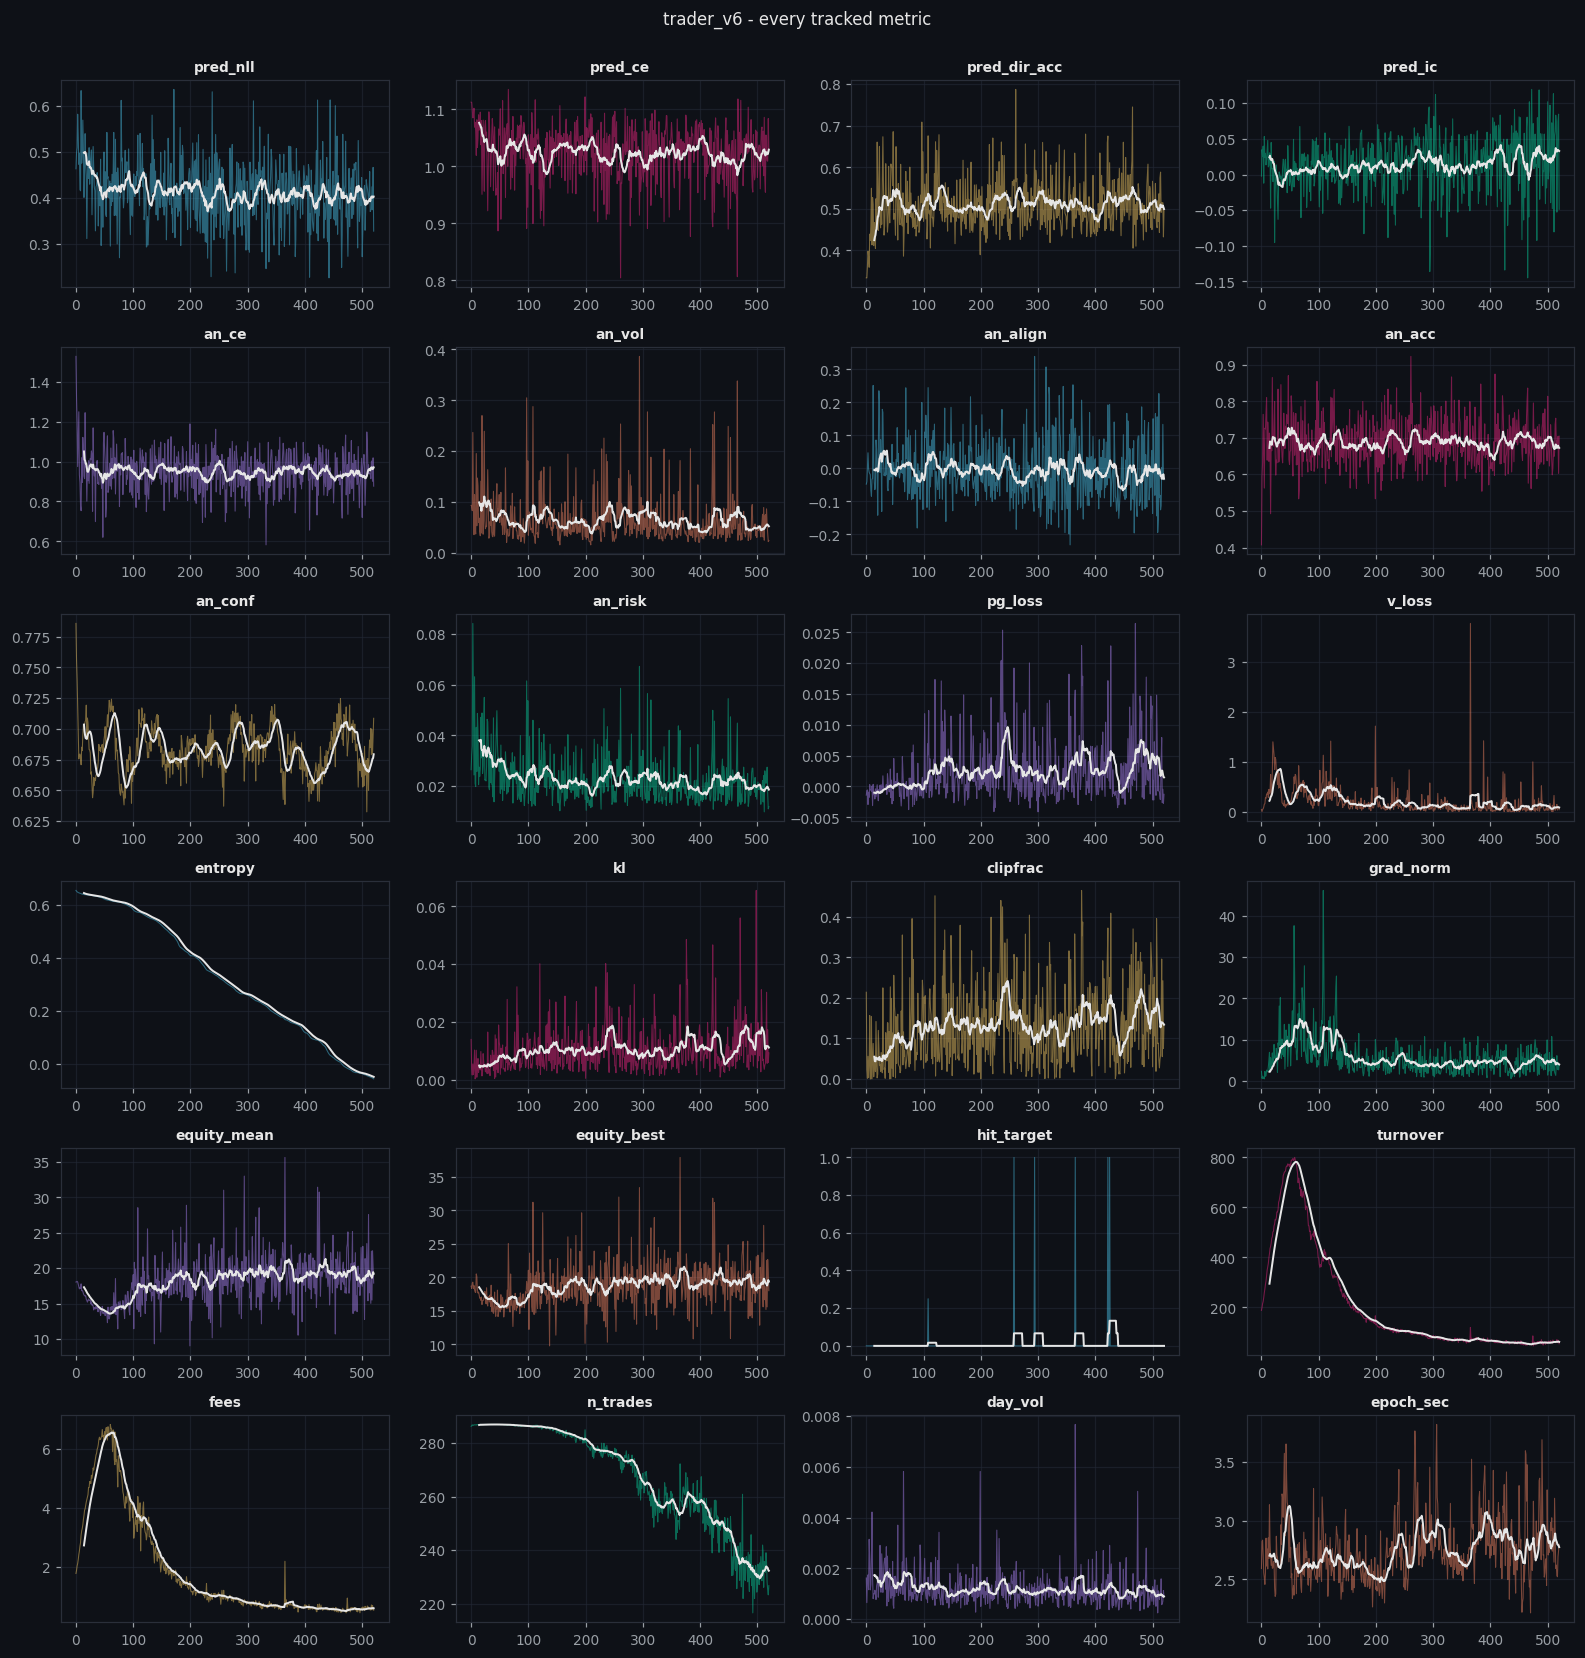
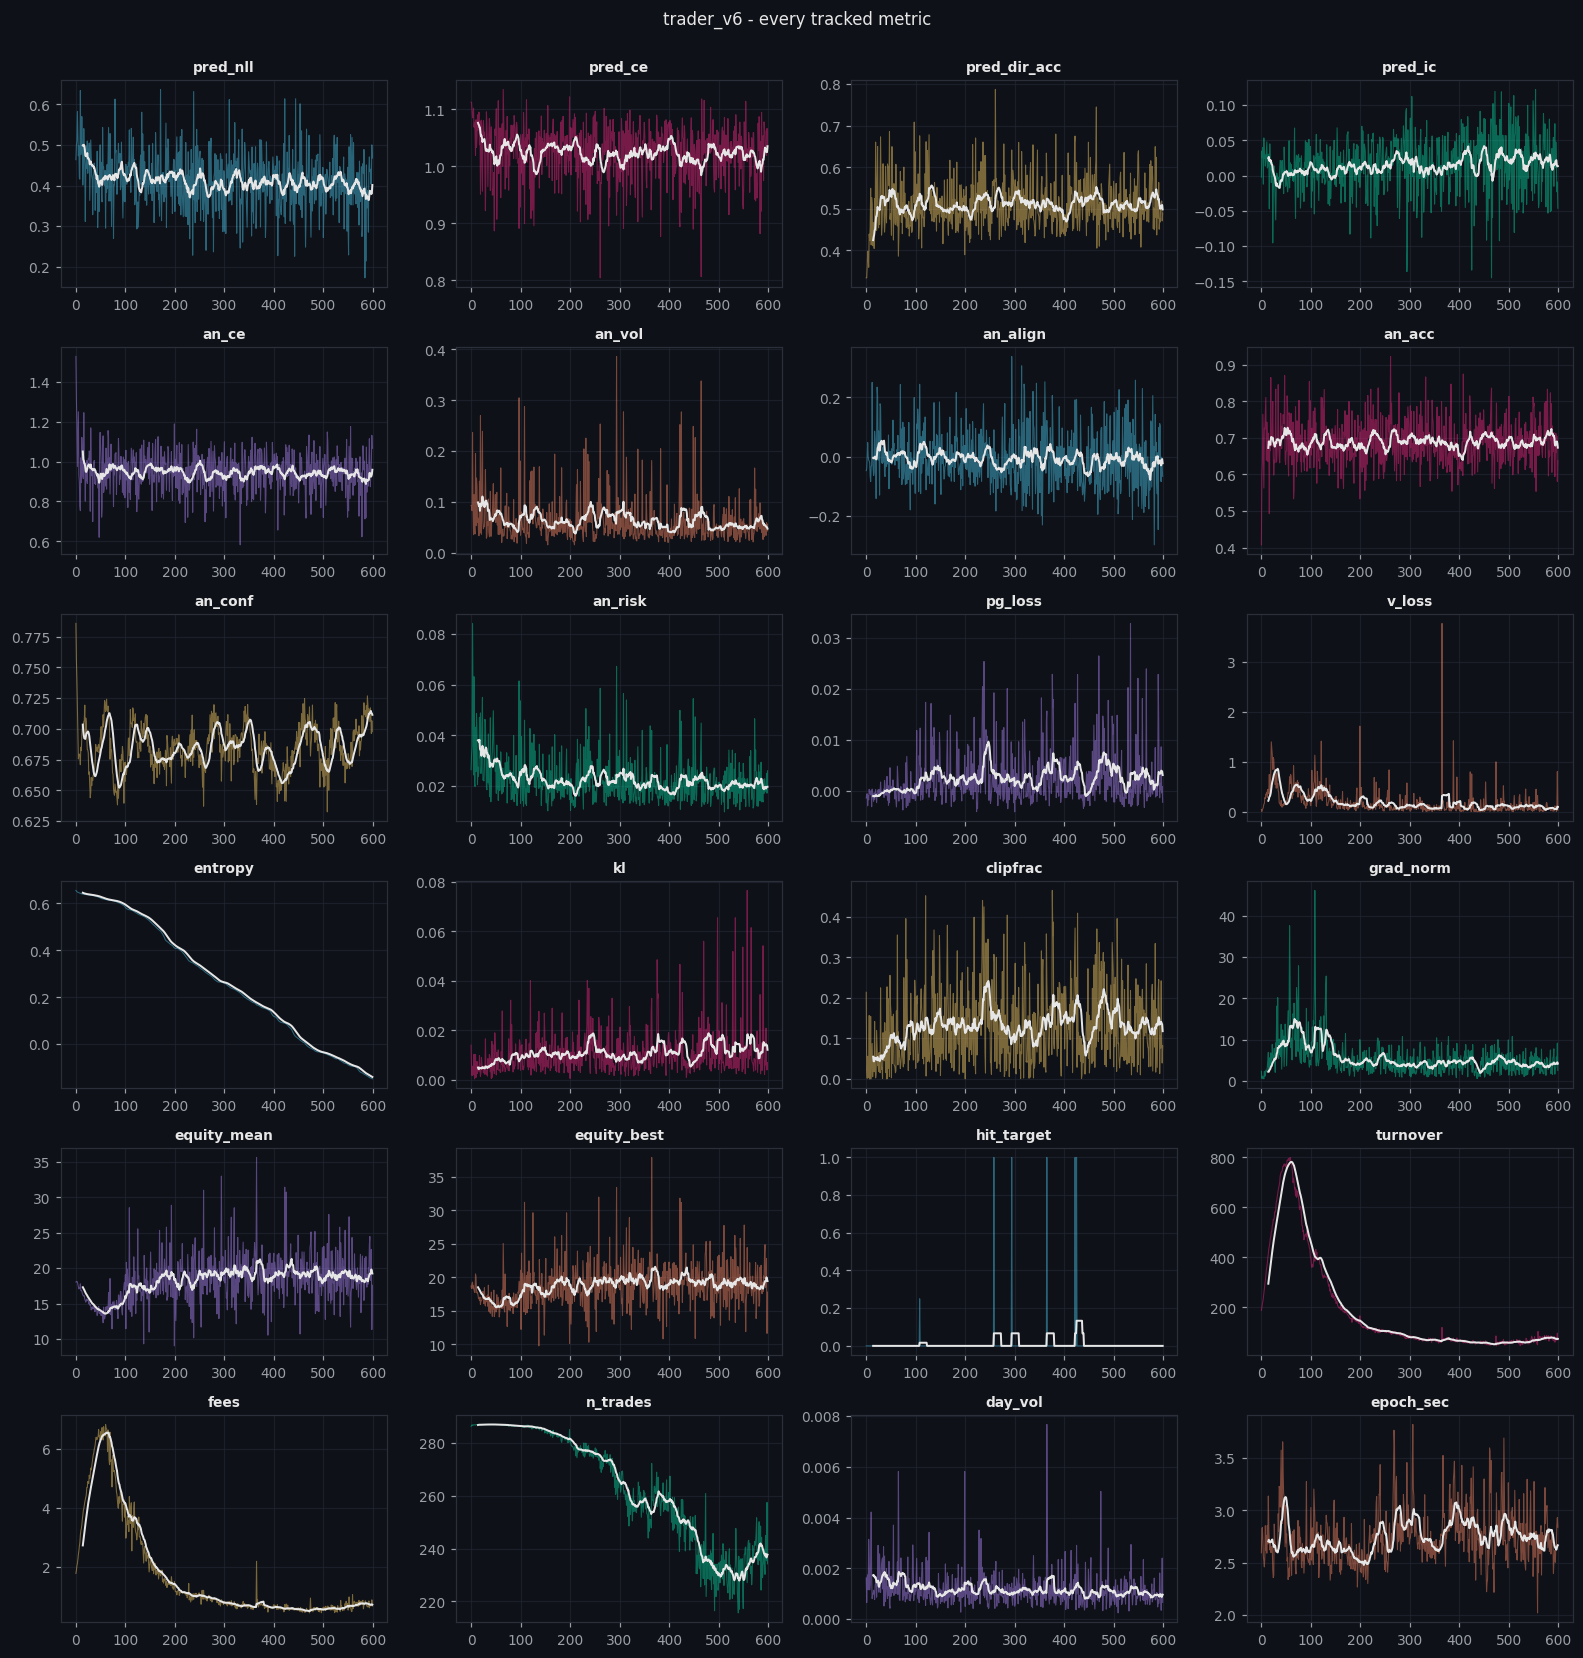
results: final 600-epoch run, refreshed charts

diff --git a/RESULTS.md b/RESULTS.md
@@ -31,25 +31,29 @@ answer. Two concrete fixes came out of that and are in the code:
 * `OMP/MKL/OPENBLAS` thread caps per rank and `--reserve-cores`, so a co-resident
   workload keeps its cores.
 
-## Run 2 — 531 epochs, CPU only, `tiny` preset
+## Run 2 — 600 epochs, CPU only, `tiny` preset
 
-A full training run end to end (2 cores, no GPU — so `tiny`, 16 trajectories/epoch,
-~2.7 s/epoch). Numbers are means over the first vs last 100 epochs:
+A complete training run end to end (2 cores, no GPU — so `tiny`, 16 trajectories per
+epoch, ~2.7 s/epoch, 195 charts produced). Means over the first vs last 100 epochs:
 
-| metric | first 100 | last 100 | |
-|---|---|---|---|
-| mean daily return | **−24.7%** | **−4.5%** | learning |
-| turnover (×equity/day) | 576 | **58** | learned to stop churning |
-| fees paid per day | $4.99 | **$0.58** | 8.6× less fee drag |
-| liquidation rate | 0% | **0%** | risk controls hold at 10× |
-| predictor IC | 0.006 | 0.023 | weak but rising |
-| predictor direction acc | 49.9% | 51.5% | barely above chance |
-| analyst regime acc | 68.7% | 69.0% | |
-| leverage (curriculum) | 4.5× | 10× | ramp completed |
+| metric | first 100 | last 100 |
+|---|---|---|
+| mean daily return | −24.7% | **−5.6%** |
+| turnover (× equity/day) | 576 | **69** |
+| fees paid per day | $4.99 | **$0.68** |
+| liquidation rate | 0% | **0%** |
+| predictor IC | 0.006 | **0.022** |
+| predictor direction acc | 49.9% | **51.1%** |
+| analyst regime acc | 68.7% | **68.9%** |
+| leverage (curriculum) | 4.5× | **10.0×** |
 
-Held-out evaluation at epoch 400 (8 days after the 2025-06-30 cutoff, deterministic
-policy): mean final equity **$19.33** from $20, i.e. **−3.4%**, **0%** of days reached
-$30.
+The headline is turnover collapsing 8× and fee drag with it; that is the policy
+learning that trading costs money. Zero liquidations across all 600 epochs even once
+the curriculum reached full 10× leverage.
+
+Held-out evaluation at epoch 599 (8 days after the 2025-06-30 cutoff, deterministic
+policy): mean final equity **$19.36** from $20, i.e. **−3.2%**, and **0%** of days
+reached $30.
 
 ![dashboard](docs/sample_run/dashboard.png)
 

diff --git a/README.md b/README.md
@@ -198,9 +198,9 @@ tests/                    unit tests, run with `python -m pytest tests -q`
 
 ## Results
 
-See **[RESULTS.md](RESULTS.md)** for a real 531-epoch run: mean daily return improved
-from -24.7% to -4.5%, turnover fell 576x -> 58x, fees 8.6x lower, zero liquidations at
-10x leverage - and an honest held-out result of -3.4%/day with the $30 target never
+See **[RESULTS.md](RESULTS.md)** for a real 600-epoch run: mean daily return improved
+from -24.7% to -5.6%, turnover fell 576x -> 69x, fees 7x lower, zero liquidations at
+10x leverage - and an honest held-out result of -3.2%/day with the $30 target never
 reached. Charts in [`docs/sample_run/`](docs/sample_run).
 
 ## Honest notes
